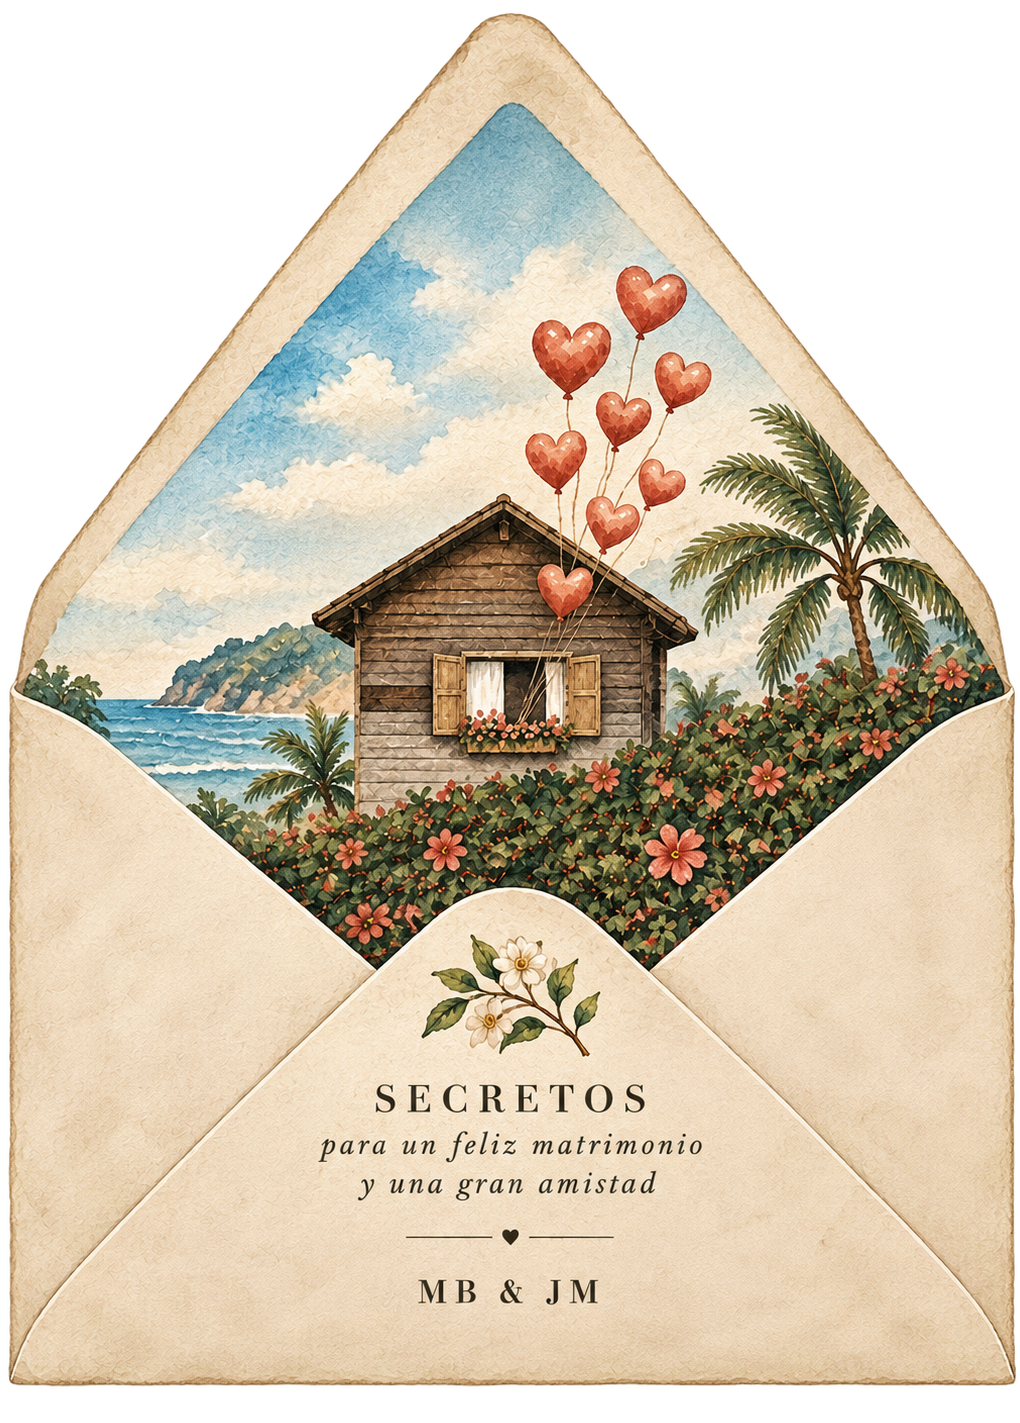
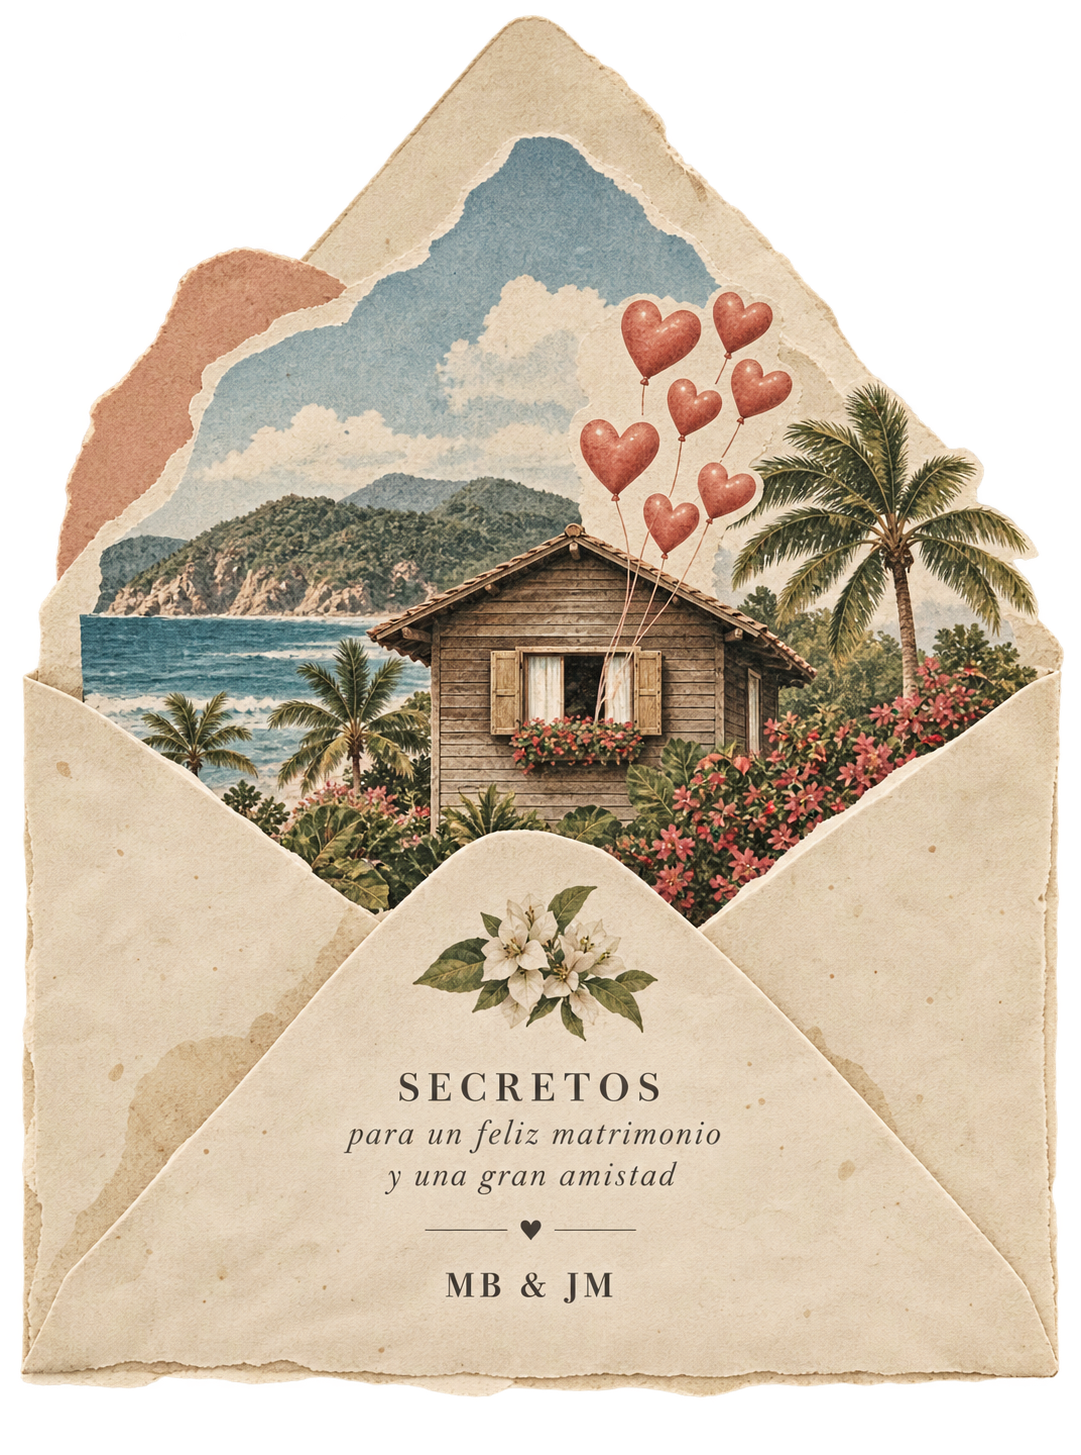
Replace advice illustration with the newer torn-paper envelope version

diff --git a/index.html b/index.html
@@ -394,8 +394,8 @@
     <div class="section-inner advice__inner">
       <div class="advice__art">
         <picture>
-          <source srcset="assets/images/secretos-matrimonio.webp?v=3" type="image/webp" />
-          <img src="assets/images/secretos-matrimonio.png?v=3" alt="Sobre abierto con una casita de playa, globos de corazón y la frase: secretos para un feliz matrimonio y una gran amistad" loading="lazy" width="510" height="712" />
+          <source srcset="assets/images/secretos-matrimonio.webp?v=4" type="image/webp" />
+          <img src="assets/images/secretos-matrimonio.png?v=4" alt="Sobre abierto estilo papel rasgado con una casita de playa, globos de corazón y la frase: secretos para un feliz matrimonio y una gran amistad" loading="lazy" width="540" height="727" />
         </picture>
       </div>
 
